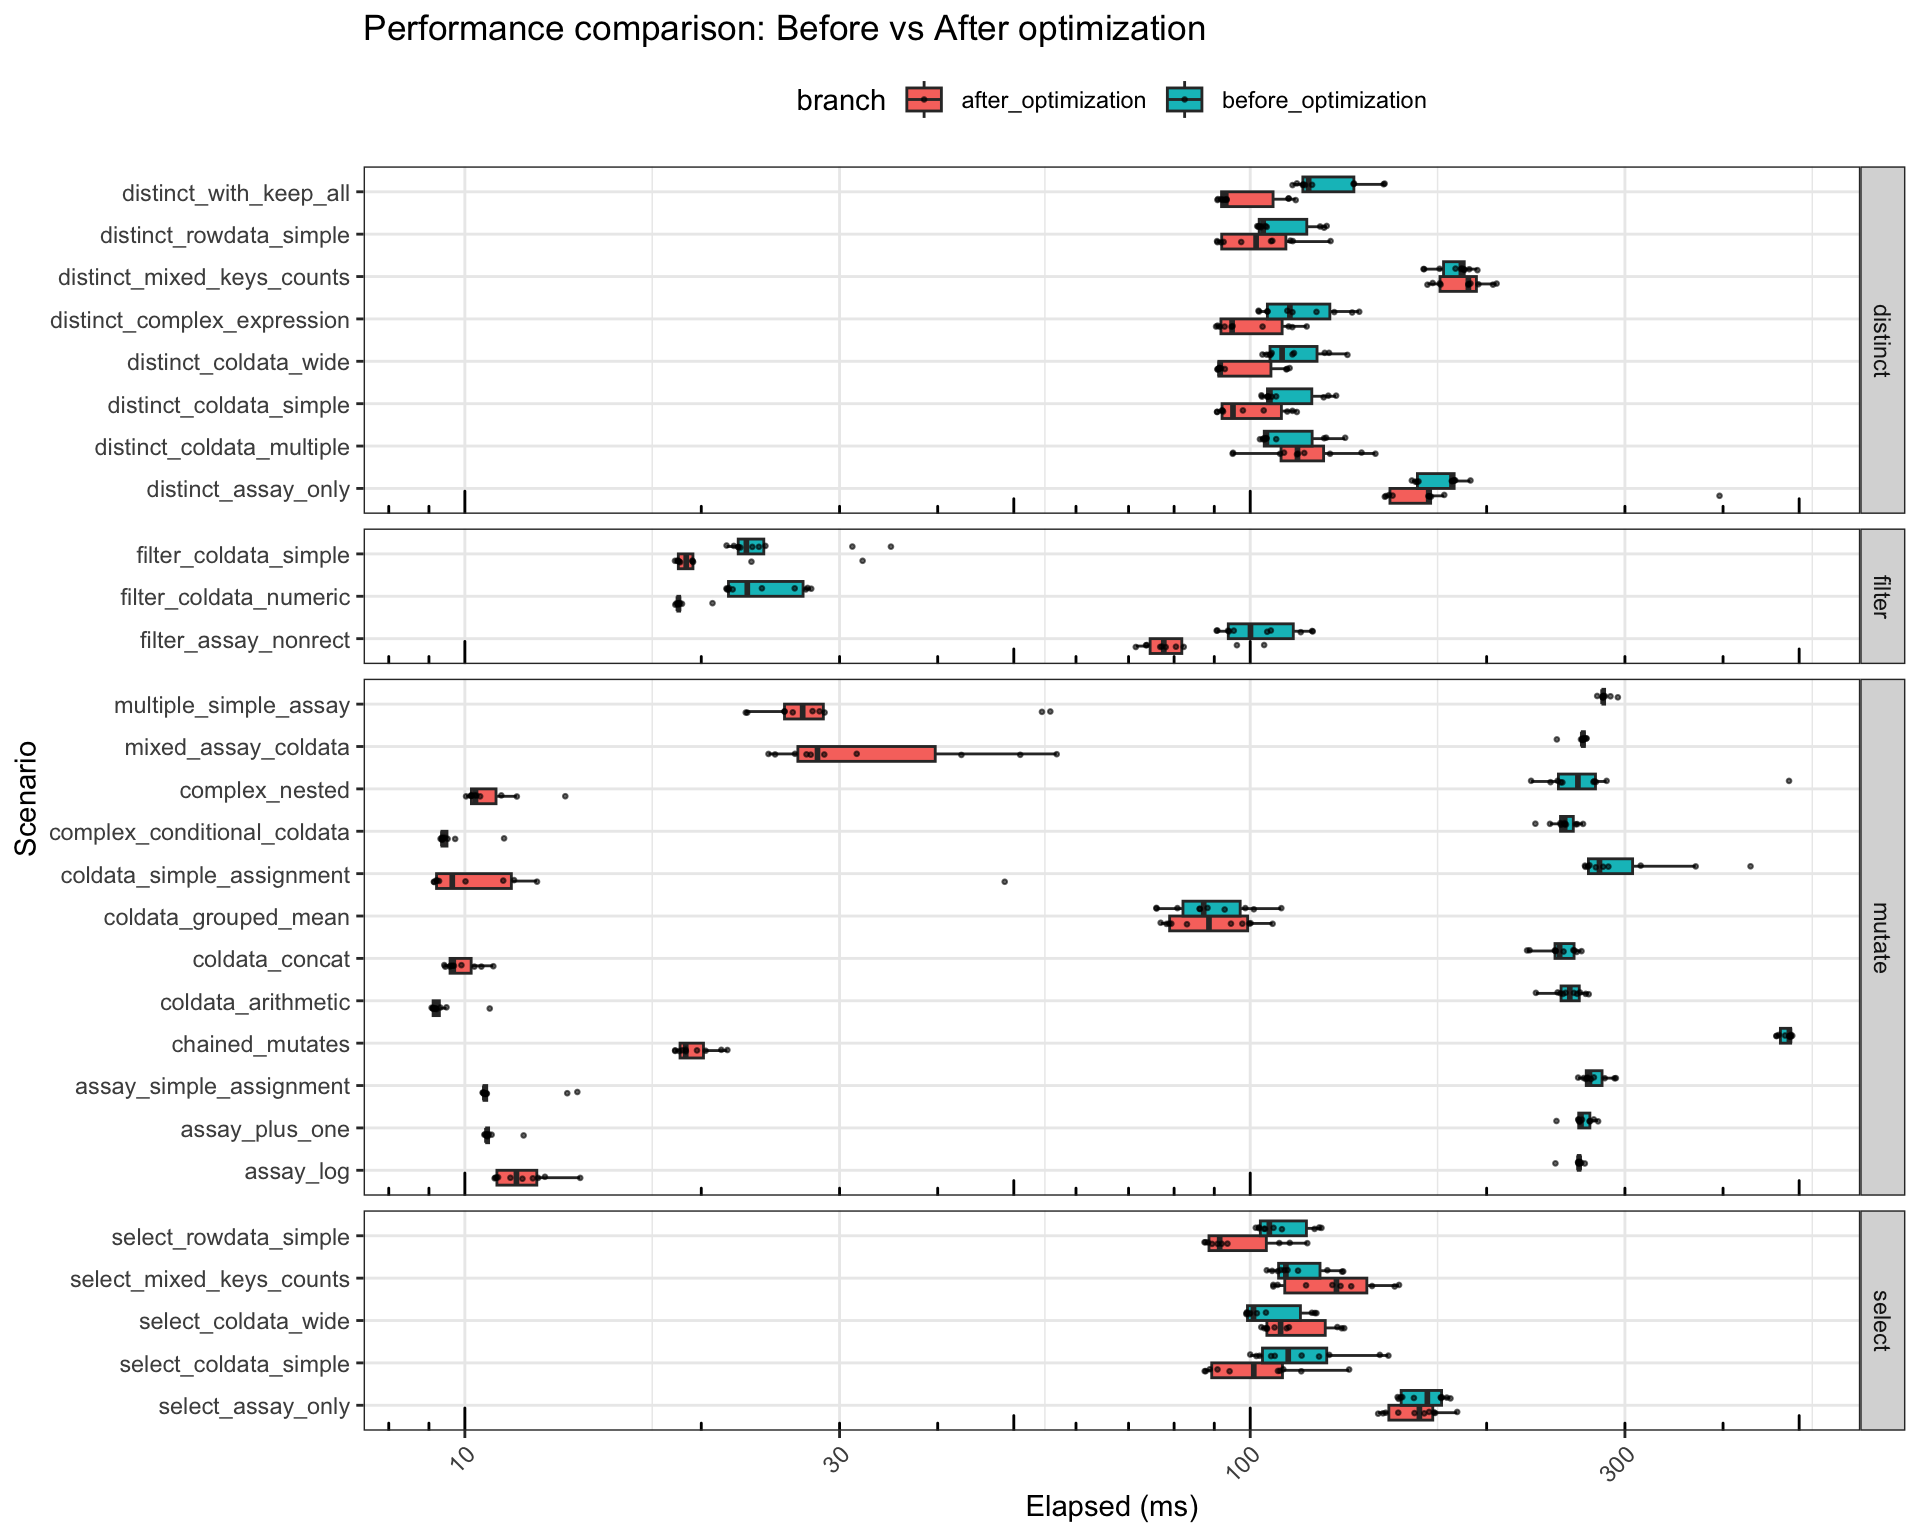
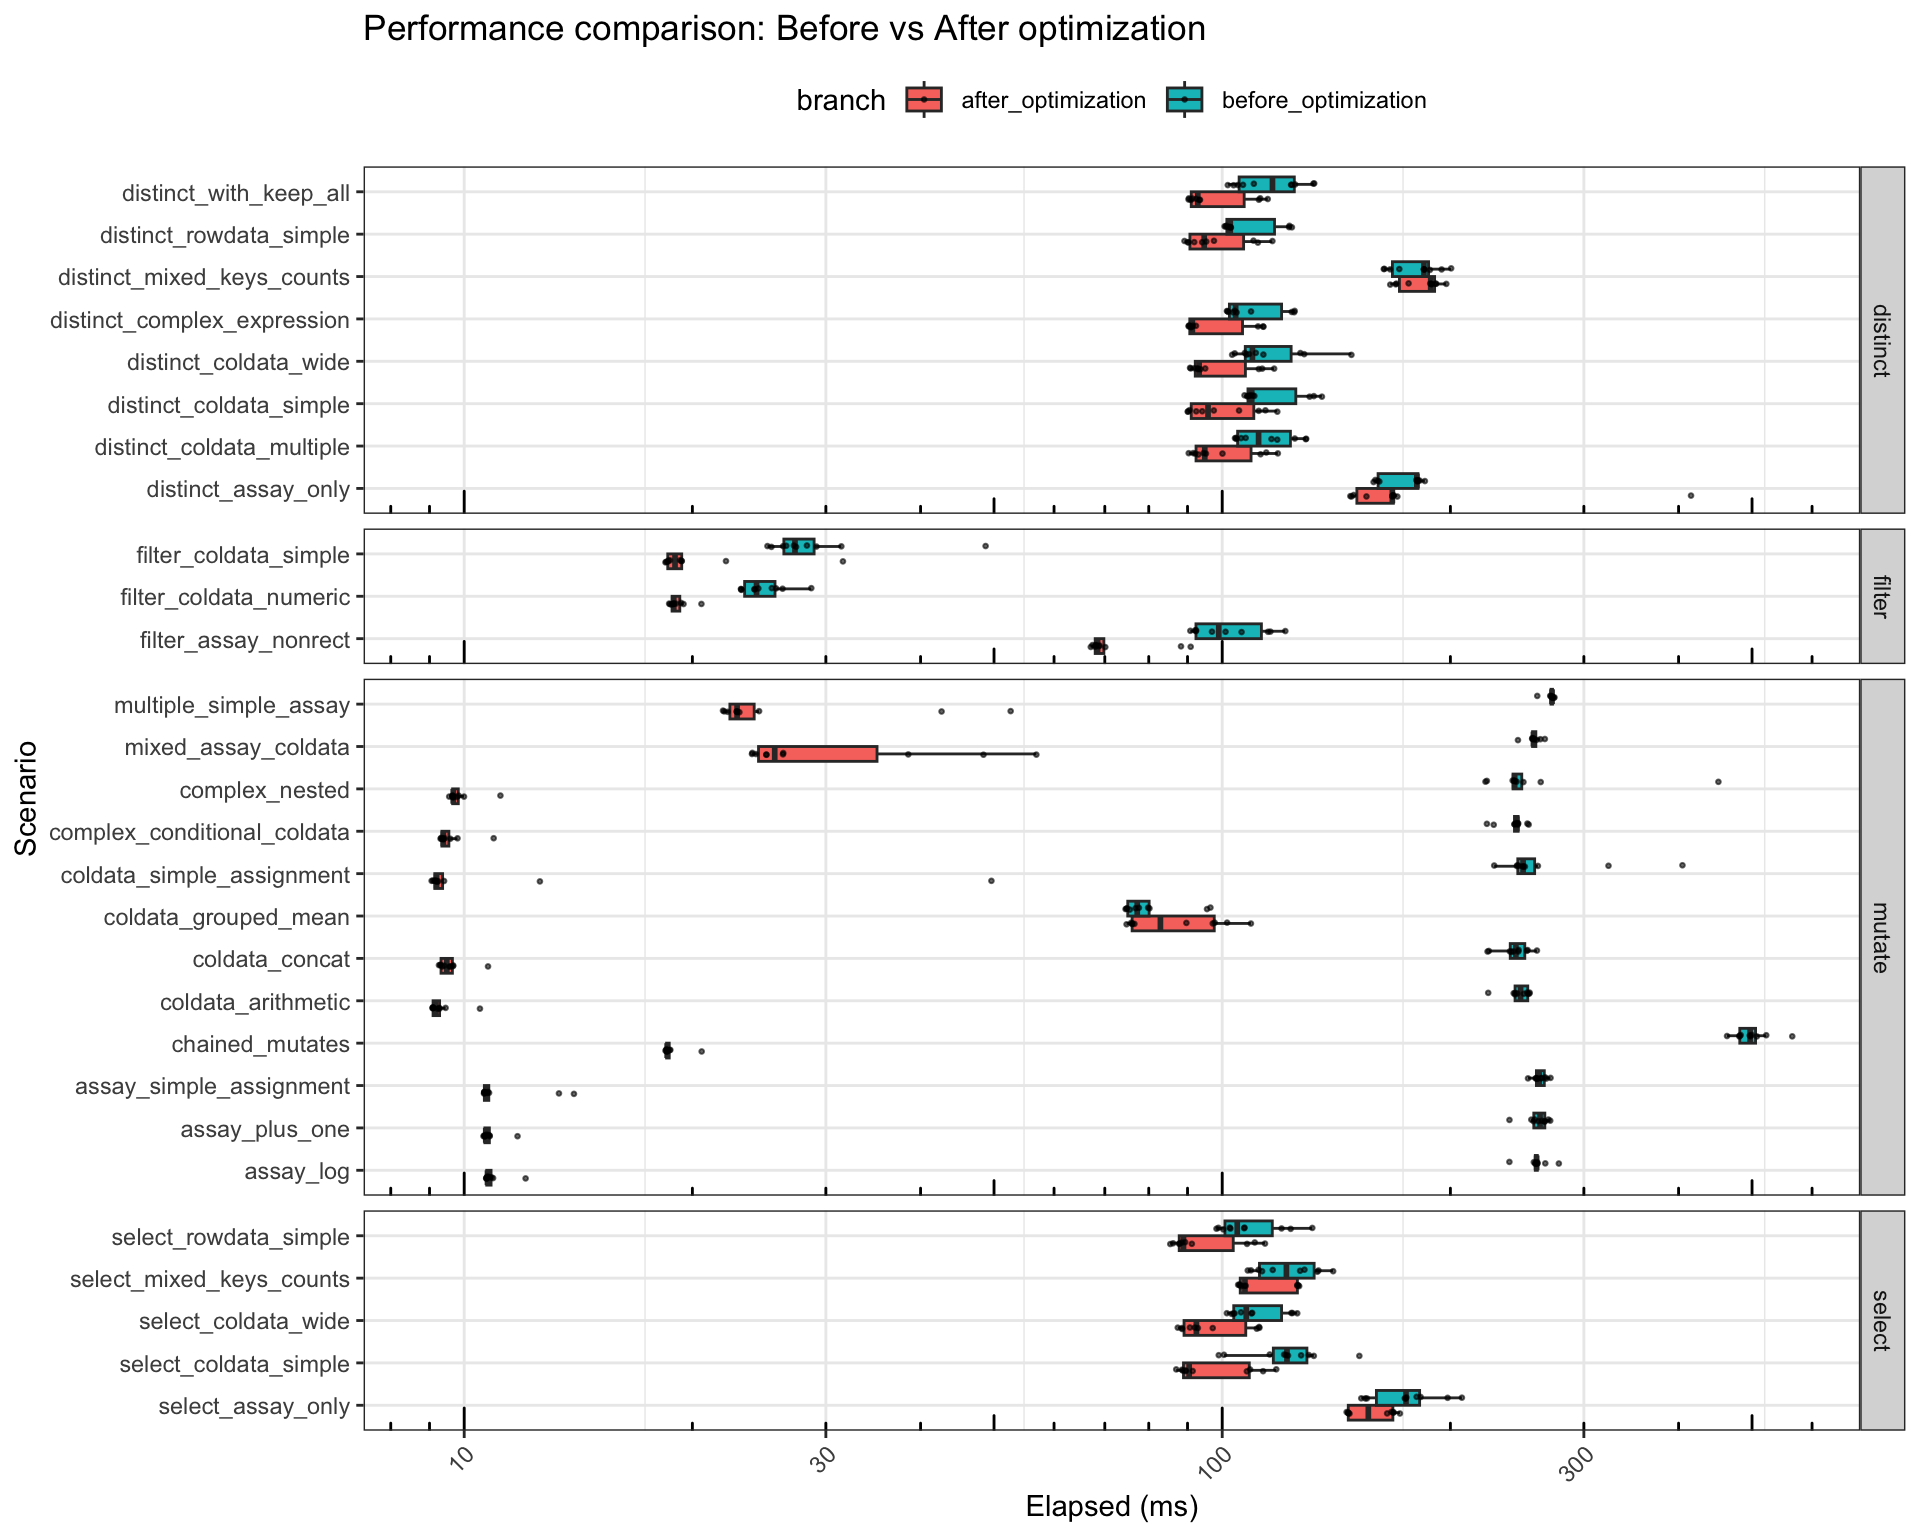
freeze files

diff --git a/_freeze/site_libs/htmltools-fill-0.5.9/fill.css b/_freeze/site_libs/htmltools-fill-0.5.9/fill.css
@@ -1,0 +1,21 @@
+@layer htmltools {
+  .html-fill-container {
+    display: flex;
+    flex-direction: column;
+    /* Prevent the container from expanding vertically or horizontally beyond its
+    parent's constraints. */
+    min-height: 0;
+    min-width: 0;
+  }
+  .html-fill-container > .html-fill-item {
+    /* Fill items can grow and shrink freely within
+    available vertical space in fillable container */
+    flex: 1 1 auto;
+    min-height: 0;
+    min-width: 0;
+  }
+  .html-fill-container > :not(.html-fill-item) {
+    /* Prevent shrinking or growing of non-fill items */
+    flex: 0 0 auto;
+  }
+}
